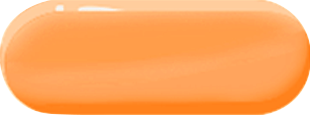
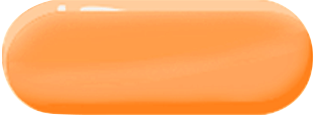
feat(index): 首页按钮的阴影

diff --git a/src/pages/Index.tsx b/src/pages/Index.tsx
@@ -6,6 +6,7 @@ import IndexBadgePng from '../assets/image/IndexBadge.png';
 import IndexRulePng from '../assets/image/IndexRule.png';
 import IndexOrangeButtonPng from '../assets/image/IndexOrangeButton.png';
 import IndexRedButtonPng from '../assets/image/IndexRedButton.png';
+import IndexShadowPng from '../assets/image/IndexShadow.png';
 import BaseMask from '../component/BaseMask';
 import BaseMusic from '../component/BaseMusic';
 import IndexPopup from '../component/IndexPopup';
@@ -27,6 +28,17 @@ const Card = styled.div`
   background-size: cover;
   height: 1040px;
   width: 702px;
+  & > a {
+    position: relative;
+  }
+  .redShadow {
+    top: 727px;
+    left: 195px;
+  }
+  .orangeShadow {
+    top: 50px;
+    left: 195px;
+  }
 `;
 
 const IndexBadgeIcon = styled.div`
@@ -39,7 +51,7 @@ const IndexBadgeIcon = styled.div`
 const Button = styled.div`
   background-size: cover;
   height: 115px;
-  width: 313px;
+  width: 315px;
   display: flex;
   justify-content: center;
   align-items: center;
@@ -47,6 +59,8 @@ const Button = styled.div`
   font-family: LeZhen, sans-serif;
   font-size: 52px;
   margin: 0 auto;
+  position: relative;
+  z-index: 1;
 `;
 const IndexRedButton = styled(Button)`
   background-image: url("${IndexRedButtonPng}");
@@ -75,6 +89,16 @@ const Control = styled.div`
   align-items: center;
 `;
 
+const Shadow = styled.div`
+    position: absolute;
+    z-index: 0;
+    background-image: url("${IndexShadowPng}");
+    background-repeat: no-repeat;
+    background-size: contain;
+    height: 104px;
+    width: 311px;
+`;
+
 const IndexPage: React.FC = () => {
   const [showMask, setShowMask] = useState(false);
   const handelRuleButtonClick = () => {
@@ -93,9 +117,11 @@ const IndexPage: React.FC = () => {
       <Card>
         <Link replace to="/choose">
           <IndexRedButton>开始游戏</IndexRedButton>
+          <Shadow className="redShadow" />
         </Link>
         <Link replace to="/rankList">
           <IndexOrangeButton>排行榜</IndexOrangeButton>
+          <Shadow className="orangeShadow" />
         </Link>
       </Card>
       {showMask && (
